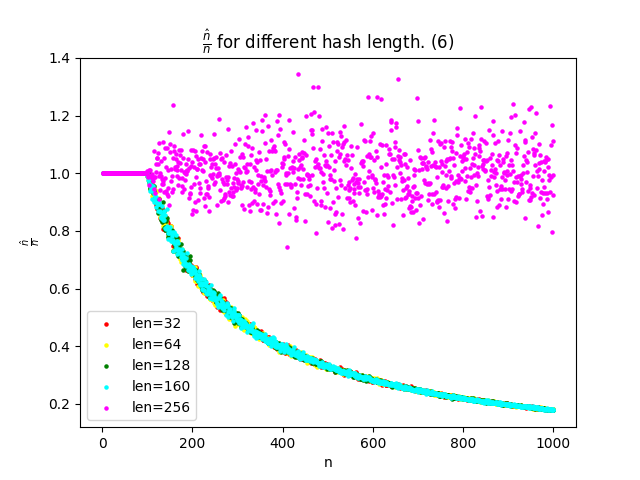
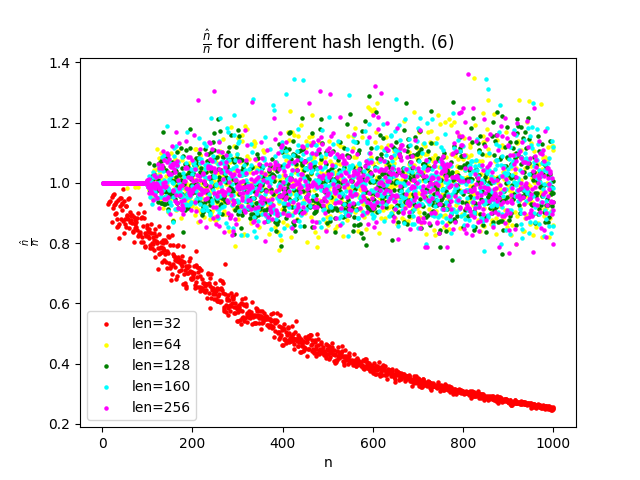
change testing parameters

diff --git a/test_hashes.py b/test_hashes.py
@@ -56,7 +56,8 @@ class FloatHash:
 
 
 class Hash32Bit:
-    """Class that returns hash function output cut to 32 bits as binary string."""
+    """Class that returns hash function output
+    cut to 32 bits as binary string."""
 
     def __init__(self, function_name: str) -> None:
         self.name = function_name
@@ -64,7 +65,7 @@ class Hash32Bit:
 
     def __call__(self, data: bytes) -> str:
         output = self.h(data).hexdigest()
-        binary = bin(int(output,16))[3:]
+        binary = bin(int(output, 16))[3:]
         return binary[:32]
 
 
@@ -74,7 +75,7 @@ def testhash():
     for fun in h_fun:
         results = []
         for i in range(10**4):
-            hash = FloatHash(160, fun)
+            hash = FloatHash(256, fun)
             results.append(hash(str(i).encode()))
         print(f"{fun} mean = {np.mean(results)}")
         print(f"{fun} var = {np.var(results)}")

diff --git a/mincount.py b/mincount.py
@@ -187,7 +187,7 @@ def task5c() -> None:
 def task6() -> None:
     k = 100
     N = 10 ** 3
-    h_len = [32, 64, 128, 160, 256]
+    h_len = [8, 16, 32, 64, 128]
     h_fun = ["awful", "blake2b", "md5", "sha1", "sha256"]
     h_len2 = [256, 256, 128, 160, 256]
     plot_x = [i for i in range(1, N+1)]
